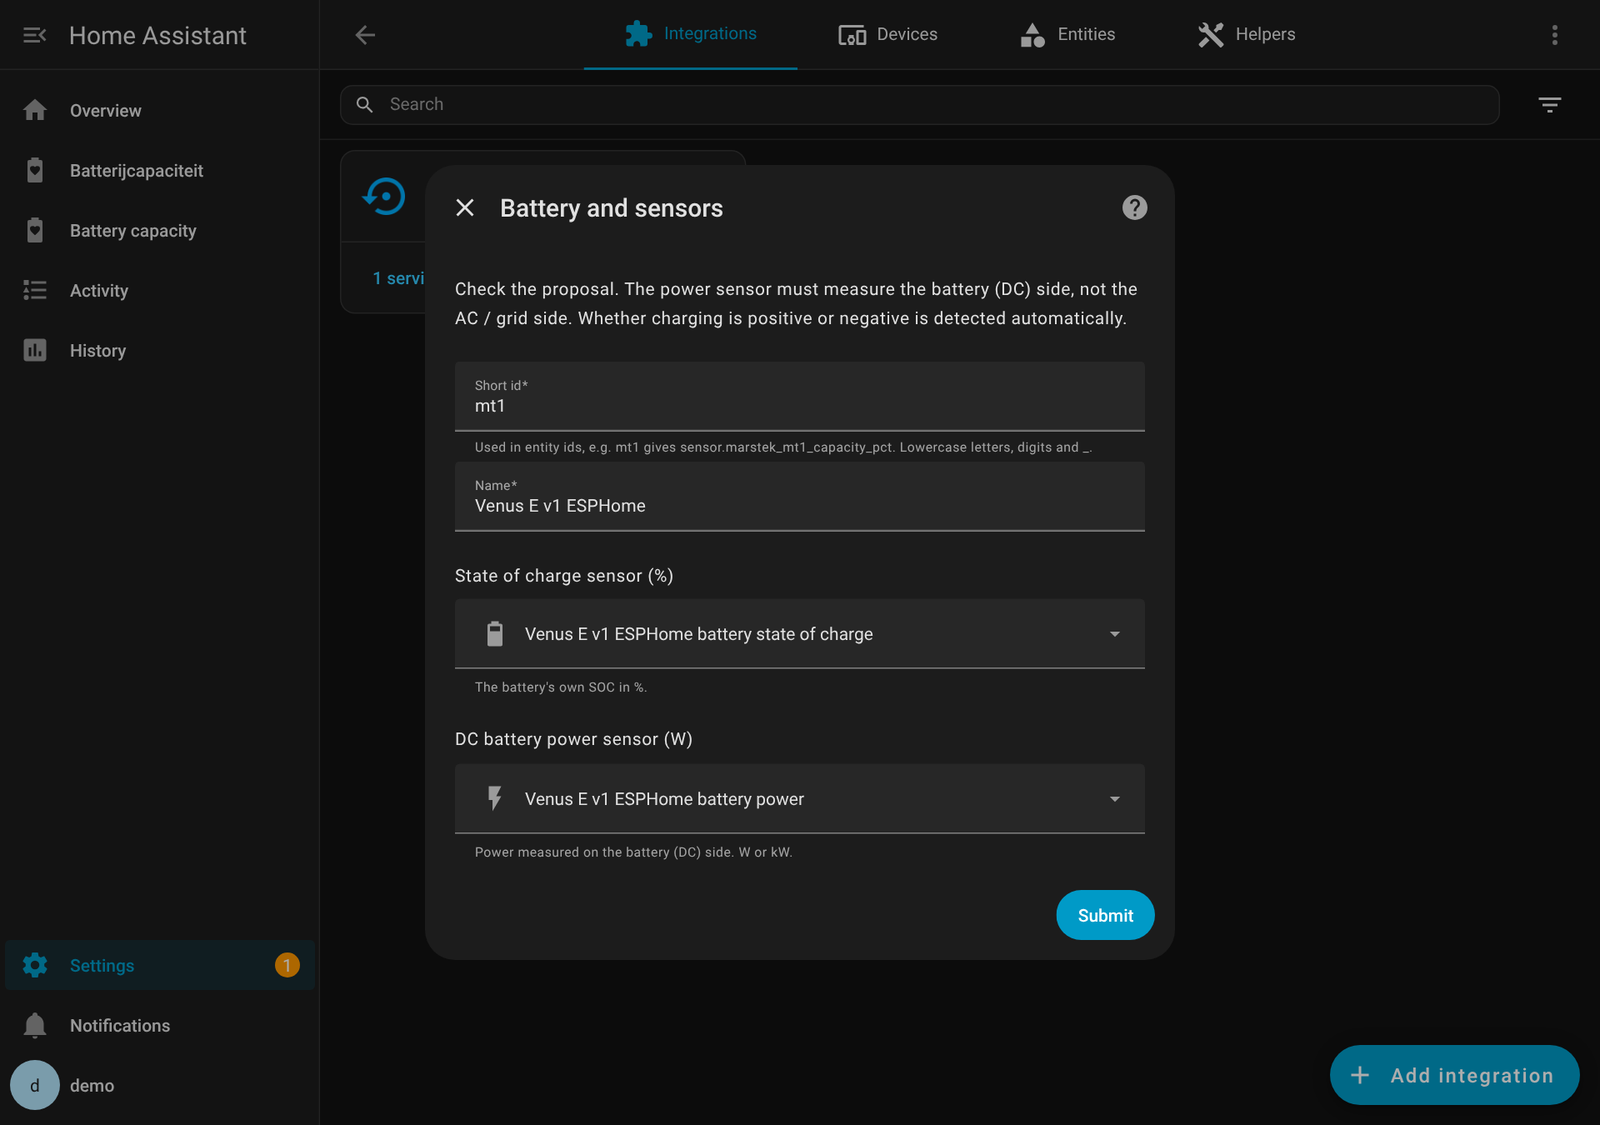
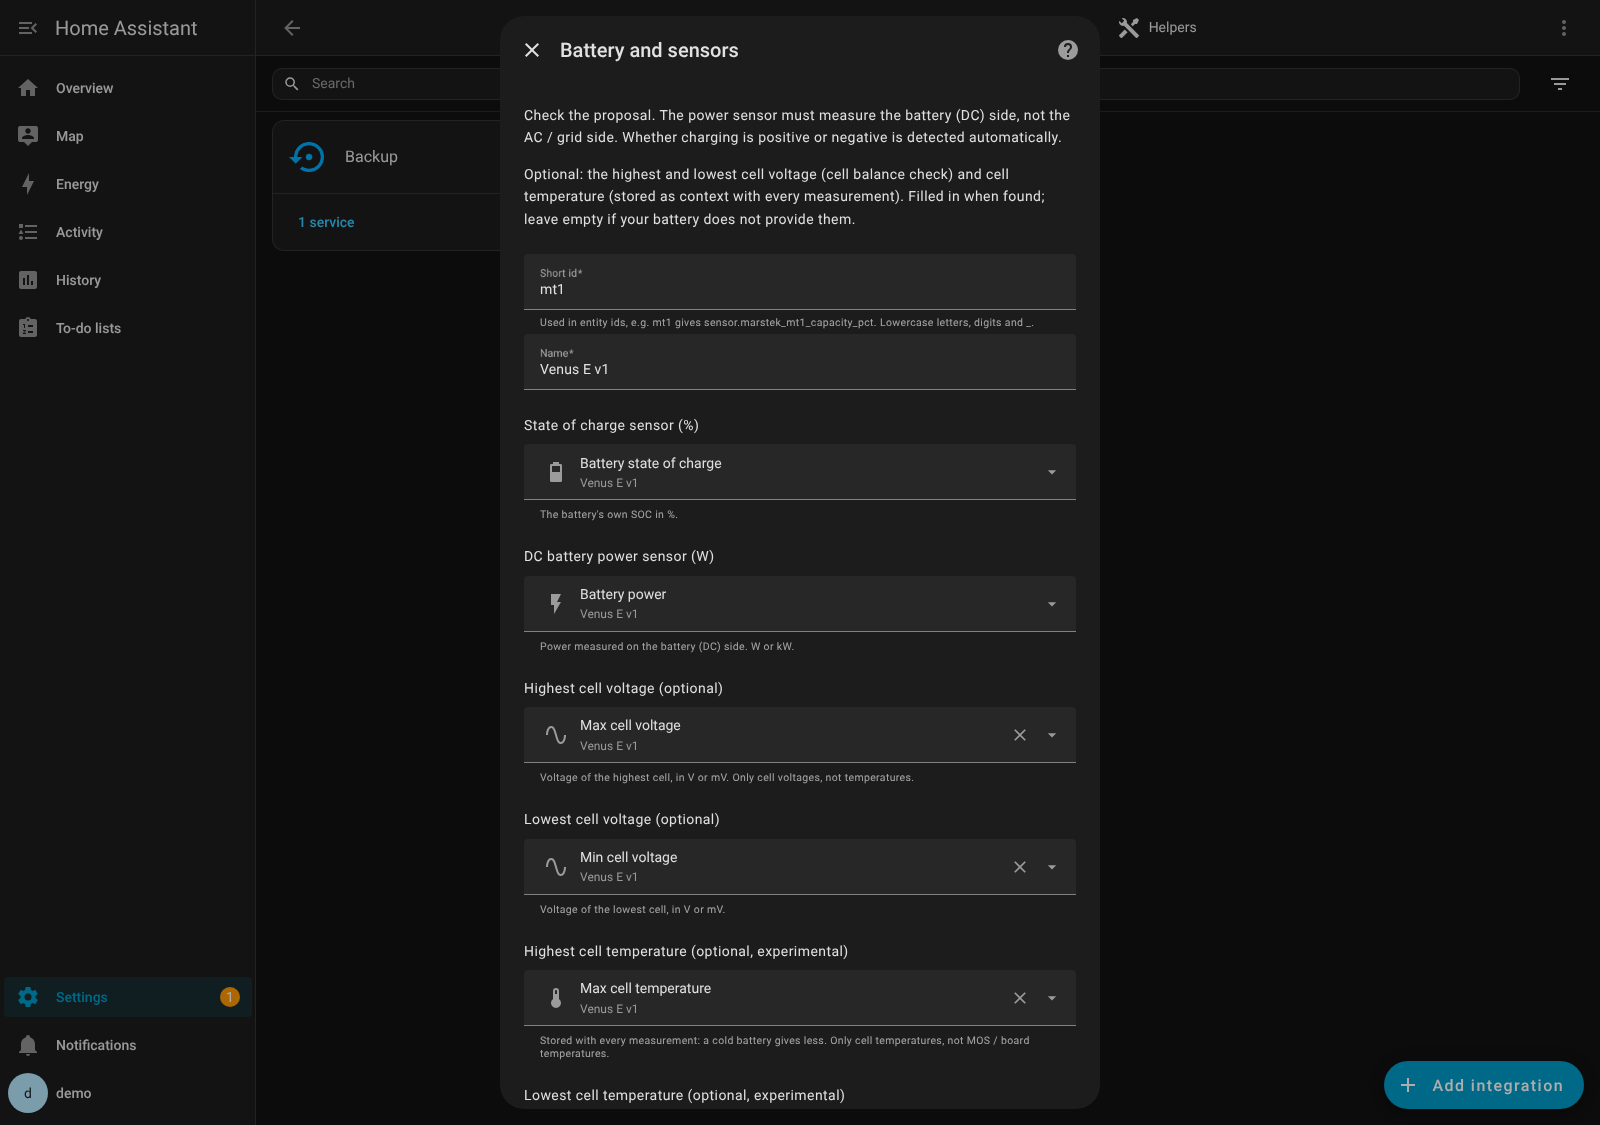
README: new setup screenshots for v0.5.1 (model step, settings)
Taken on a fresh Home Assistant 2026.2 with four demo batteries:
scan, sensors (with the optional cell sensors), the model step,
Configure (top and bottom), the integration page and a device.
Steps 2 to 4 in README and README.nl follow the current setup.

diff --git a/README.nl.md b/README.nl.md
@@ -50,15 +50,19 @@ Wijzigingen per versie: [CHANGELOG](CHANGELOG.md) (Engels).
 
 ![Scan](screenshots/01-scan.png)
 
-**2. Voorgestelde sensoren controleren**
+**2. Voorgestelde sensoren controleren (celspanning en celtemperatuur zijn optioneel)**
 
 ![Sensoren](screenshots/02-sensors.png)
 
-**3. Fabrieksgegevens (standaardwaarden uit de datasheet van de Venus E; hier het instellingenscherm van een bestaande batterij)**
+**3. Kies het model en de installatiedatum: de fabrieksgegevens worden voor je ingevuld**
+
+![Model](screenshots/03-model.png)
+
+**4. Alles later aanpassen onder Configureren: fabrieksgegevens en garantie…**
 
 ![Fabrieksgegevens](screenshots/03-factory-data.png)
 
-**4. Instellingen later aanpassen, ook plus/min van de vermogensensor**
+**…en verderop plus/min van de vermogensensor, meldingen, het menu-item in de zijbalk en de gevoeligheid voor SOC-drift en celkalibratie**
 
 ![Instellingen](screenshots/04-settings.png)
 

diff --git a/README.md b/README.md
@@ -50,15 +50,19 @@ Changes per version: [CHANGELOG](CHANGELOG.md).
 
 ![Scan](screenshots/01-scan.png)
 
-**2. Check the proposed sensors**
+**2. Check the proposed sensors (cell voltage and cell temperature are optional)**
 
 ![Sensors](screenshots/02-sensors.png)
 
-**3. Factory data (defaults from the Venus E datasheet; this view is the settings screen with an existing battery)**
+**3. Pick the model and the installation date: the factory data are filled in for you**
+
+![Model](screenshots/03-model.png)
+
+**4. Change everything later under Configure: factory data and warranty…**
 
 ![Factory data](screenshots/03-factory-data.png)
 
-**4. Change settings later, including the sign of the power sensor**
+**…and further down the sign of the power sensor, notifications, the sidebar menu item and the sensitivity for SOC drift and cell calibration**
 
 ![Settings](screenshots/04-settings.png)
 
